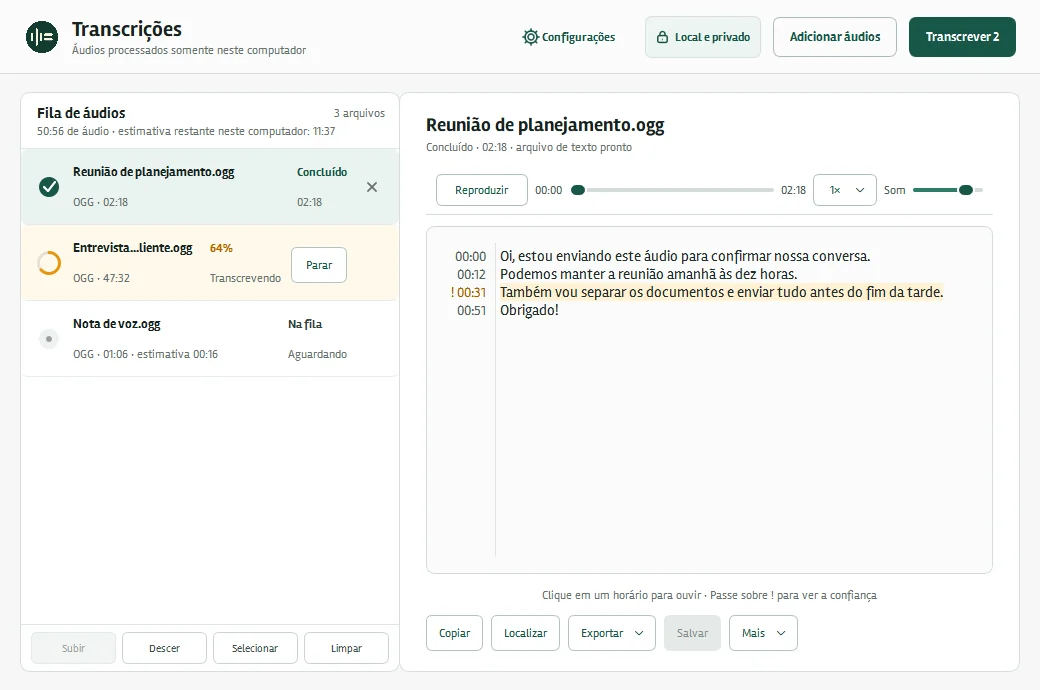
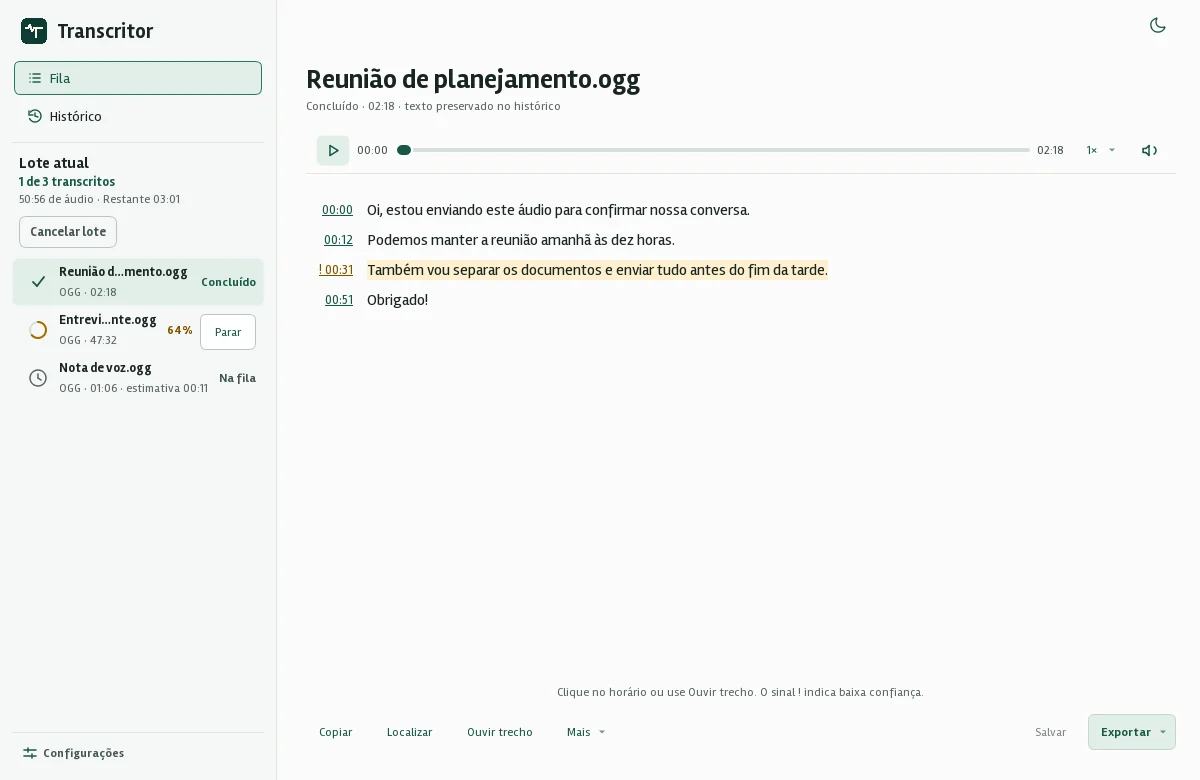
feat(projects): refresh the Transcritor case with the new interface and put each cover before the facts sidebar on mobile

diff --git a/src/components/pages/project-detail.tsx b/src/components/pages/project-detail.tsx
@@ -196,6 +196,32 @@ export function ProjectDetail() {
 
 	if (!project) return null;
 
+	// The cover shows before the facts sidebar on small screens and inside the
+	// main column on large ones, so it is built once and rendered twice.
+	const coverButton = project.cover ? (
+		<button
+			type="button"
+			onClick={() =>
+				project.cover &&
+				openLightbox({ src: project.cover, alt: project.coverAlt })
+			}
+			className={`group relative block w-full cursor-zoom-in overflow-hidden rounded-xl border border-border shadow-sm ${project.wideMedia ? "max-w-2xl" : "max-w-sm"}`}
+		>
+			<FadeInImage
+				src={project.cover}
+				priority
+				alt={project.coverAlt ?? project.title}
+				containerClassName={project.wideMedia ? "" : "aspect-video"}
+				imgClassName={
+					project.wideMedia
+						? "w-full h-auto"
+						: "h-full w-full object-cover object-top"
+				}
+			/>
+			<ZoomHint label={t("common.zoomImage")} />
+		</button>
+	) : null;
+
 	const periodLabel = `${project.periodStart} — ${project.periodEnd ?? t("projects.present")}`;
 	const showNoLinkNote =
 		project.status === "private" && !project.repo && !project.demo;
@@ -342,6 +368,8 @@ export function ProjectDetail() {
 					</div>
 				</SectionReveal>
 
+				{coverButton && <div className="lg:hidden">{coverButton}</div>}
+
 				<div className="grid gap-10 lg:grid-cols-[220px_minmax(0,1fr)] lg:items-start">
 					<SectionReveal
 						delay={0.08}
@@ -476,28 +504,8 @@ export function ProjectDetail() {
 					</SectionReveal>
 
 					<SectionReveal immediate className="flex min-w-0 flex-col gap-8">
-						{project.cover && (
-							<button
-								type="button"
-								onClick={() =>
-									project.cover &&
-									openLightbox({ src: project.cover, alt: project.coverAlt })
-								}
-								className={`group relative block w-full cursor-zoom-in overflow-hidden rounded-xl border border-border shadow-sm ${project.wideMedia ? "max-w-2xl" : "max-w-sm"}`}
-							>
-								<FadeInImage
-									src={project.cover}
-									priority
-									alt={project.coverAlt ?? project.title}
-									containerClassName={project.wideMedia ? "" : "aspect-video"}
-									imgClassName={
-										project.wideMedia
-											? "w-full h-auto"
-											: "h-full w-full object-cover object-top"
-									}
-								/>
-								<ZoomHint label={t("common.zoomImage")} />
-							</button>
+						{coverButton && (
+							<div className="hidden lg:block">{coverButton}</div>
 						)}
 
 						<div
